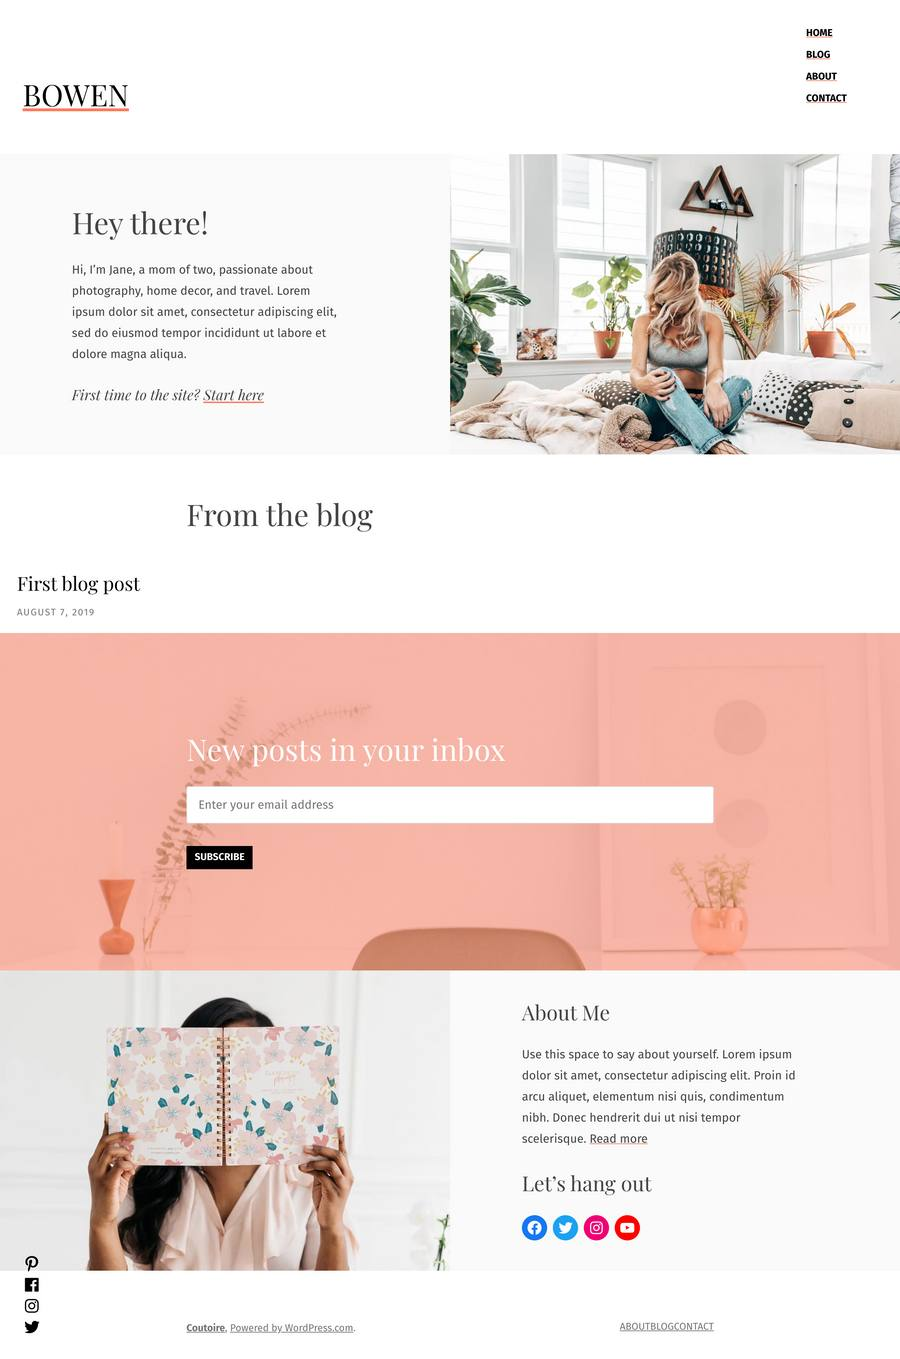
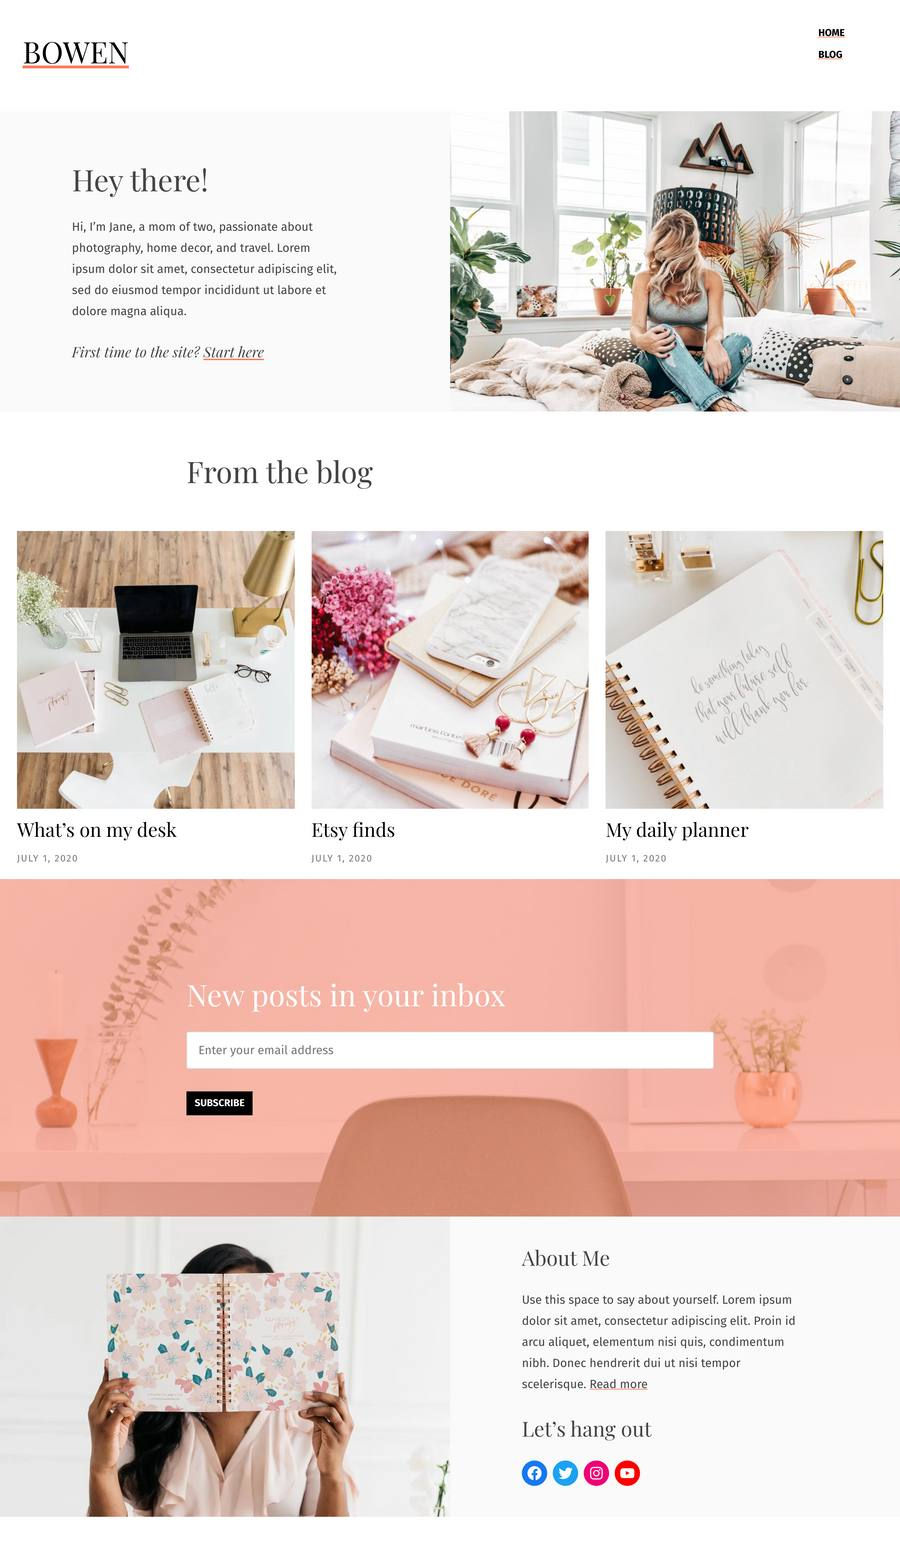
Gutenboarding: update design screenshots (#44020)
* Updating screenshots now that the previews are based on clean starter sites. See: https://github.com/Automattic/view-design/issues/54

* Reverting the hand of DOOM

* We want colour in our burger

* Updating Doyle due to some funky screen shot weirdness.
Adding a cache buster to the image URL as well as some comments

* updated leven, which was experiencing the same problems as the hand of DOOM. (out of proportion background image)

* updated overton to show the correct button colour and image posts

diff --git a/client/landing/gutenboarding/available-designs.ts b/client/landing/gutenboarding/available-designs.ts
@@ -22,7 +22,8 @@ export const getDesignImageUrl = ( design: Design ) => {
 	// https://github.com/Automattic/mShots/issues/16
 	// https://github.com/Automattic/wp-calypso/issues/40564
 	if ( ! isEnabled( 'gutenboarding/mshot-preview' ) ) {
-		return `/calypso/page-templates/design-screenshots/${ design.slug }_${ design.template }_${ design.theme }.jpg`;
+		// When we update the static images, bump the version for cache busting
+		return `/calypso/page-templates/design-screenshots/${ design.slug }_${ design.template }_${ design.theme }.jpg?v=2`;
 	}
 
 	const mshotsUrl = 'https://s.wordpress.com/mshots/v1/';

diff --git a/bin/generate-gutenboarding-design-thumbnails.js b/bin/generate-gutenboarding-design-thumbnails.js
@@ -14,6 +14,8 @@
  *
  * `node ./bin/generate-gutenboarding-design-thumbnails.js`
  *
+ * We should bump the version query param on the image src to cache bust the images too in client/landing/gutenboarding/available-designs.ts
+ *
  * To check the results, take a look at http://calypso.localhost:3000/new/design and the output folder static/images
  *
  */
